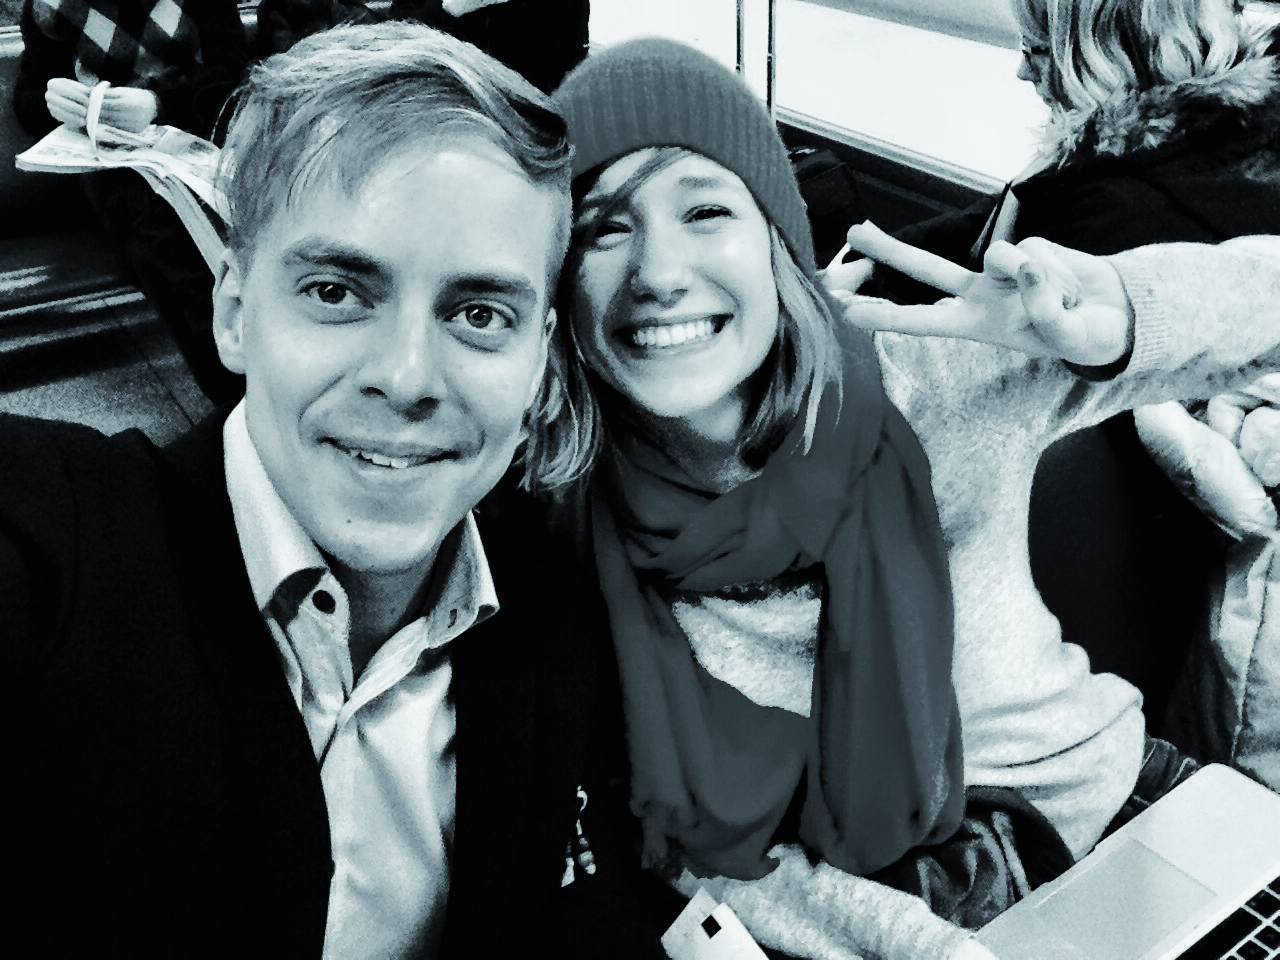
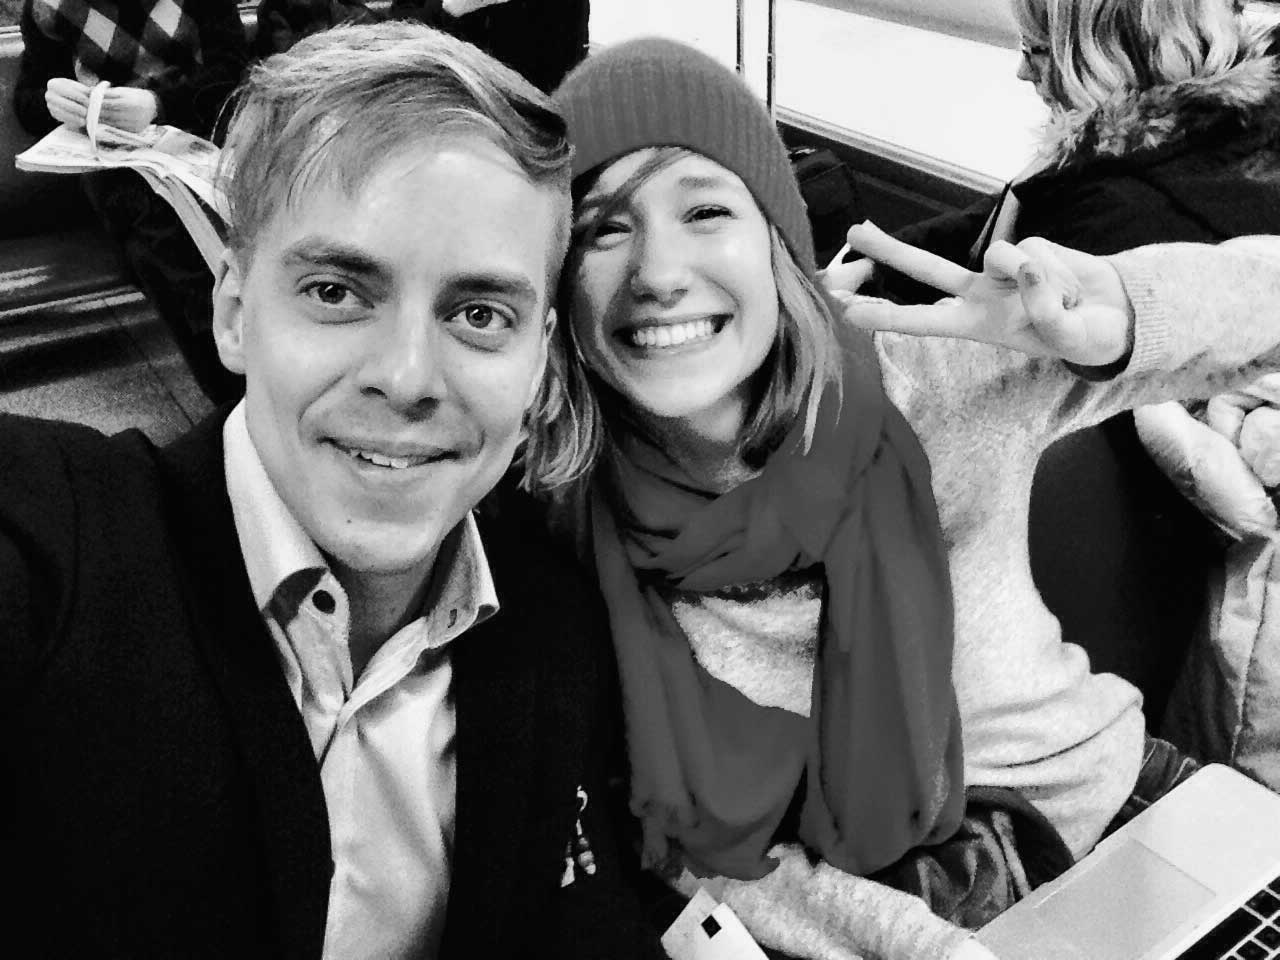
AAA brutaalia, pienensin Maijan kuvia

diff --git a/lataa.html b/lataa.html
@@ -48,7 +48,7 @@
 
         <div class="nav-download col-sm-3 col-12">
                 <button type="button" class="btn pdf-download" onclick="window.location.href='lataa.html'">» Lataa ilmainen opas</button>
-          <span class="glyphicon glyphicon-search"></span>
+
         </div>
       </div>
     </div>
